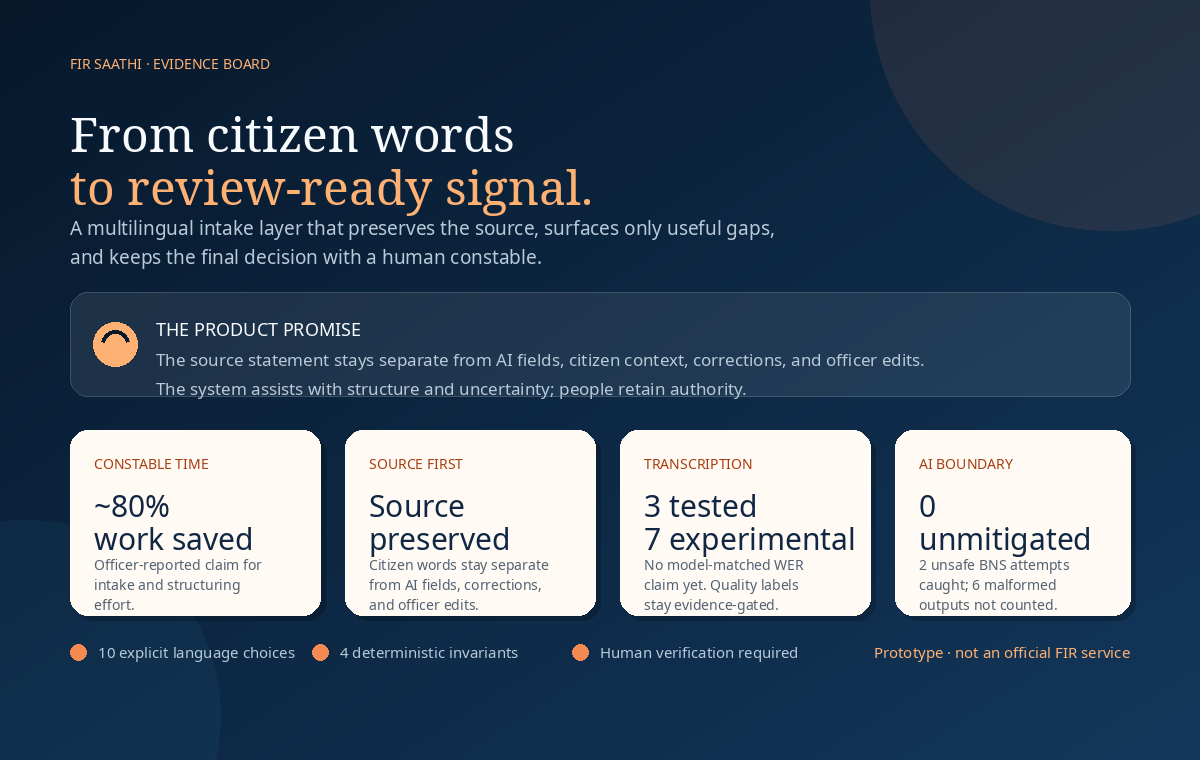
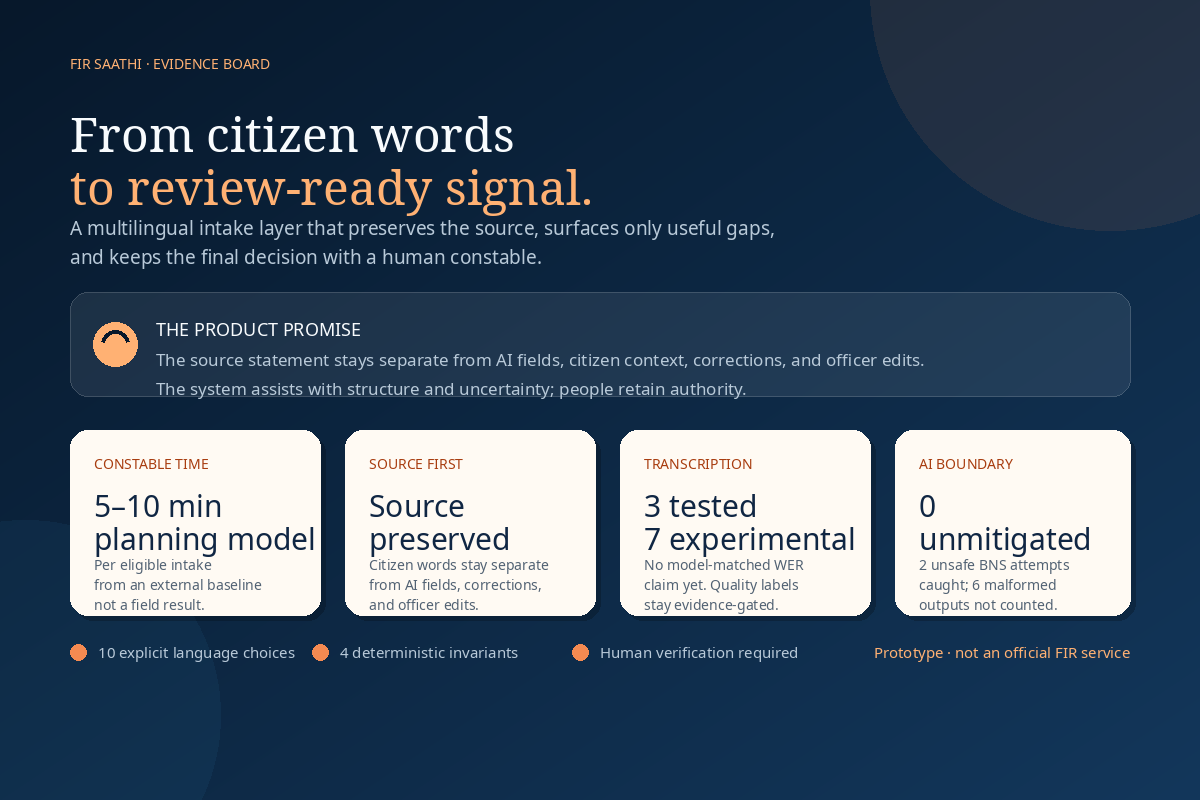
Tighten judging claims and repository metadata

Changed region(s): [[0.0308, 0.1513, 0.9558, 0.8776], [0.0617, 0.0605, 0.2158, 0.0908]]

diff --git a/scripts/render_evidence_board.py b/scripts/render_evidence_board.py
@@ -3,7 +3,7 @@ from pathlib import Path
 from PIL import Image, ImageDraw, ImageFont
 
 OUT = Path(__file__).resolve().parents[1] / "docs" / "assets" / "evidence-board.png"
-WIDTH, HEIGHT = 1200, 760
+WIDTH, HEIGHT = 1200, 800
 
 
 def font_path(pattern: str) -> str:
@@ -58,7 +58,7 @@ draw.text((156, 347), "The source statement stays separate from AI fields, citiz
 draw.text((156, 376), "The system assists with structure and uncertainty; people retain authority.", font=font(sans, 17), fill=muted)
 
 cards = [
-    (70, "CONSTABLE TIME", ["~80%", "work saved"], ["Officer-reported claim for", "intake and structuring", "effort."]),
+    (70, "CONSTABLE TIME", ["5–10 min", "planning model"], ["Per eligible intake", "from an external baseline", "not a field result."]),
     (345, "SOURCE FIRST", ["Source", "preserved"], ["Citizen words stay separate", "from AI fields, corrections,", "and officer edits."]),
     (620, "TRANSCRIPTION", ["3 tested", "7 experimental"], ["No model-matched WER", "claim yet. Quality labels", "stay evidence-gated."]),
     (895, "AI BOUNDARY", ["0", "unmitigated"], ["2 unsafe BNS attempts", "caught; 6 malformed", "outputs not counted."]),

diff --git a/README.md b/README.md
@@ -4,7 +4,7 @@
 
 ### The source-preserving intake layer for multilingual public-service review
 
-**Citizens keep their own words. Constables get a clearer review surface. AI assists with structure and uncertainty—people retain authority.**
+**Citizens keep their own words. Constables get a clearer review surface. AI assists with structure and uncertainty; people retain authority.**
 
 [![Deploy to Raspberry Pi](https://github.com/khushitpratikshah/fir-saathi/actions/workflows/deploy-raspberry-pi.yml/badge.svg)](https://github.com/khushitpratikshah/fir-saathi/actions/workflows/deploy-raspberry-pi.yml)
 [![Prototype](https://img.shields.io/badge/status-prototype-f48a51?labelColor=102643)](#scope-and-boundaries)
@@ -12,7 +12,7 @@
 
 </div>
 
-> **FIR Saathi is a demonstration prototype—not an official police portal, emergency service, FIR-registration system, legal-advice engine, or automated decision-maker.** Do not use it for real or urgent complaints.
+> **FIR Saathi is a demonstration prototype, not an official police portal, emergency service, FIR-registration system, legal-advice engine, or automated decision-maker.** Do not use it for real or urgent complaints.
 
 ## Inspiration: what “FIR” means
 
@@ -52,11 +52,11 @@ Here are the four questions a serious evaluator should ask. The numbers below di
 
 | Question | What we can defend today | Status |
 |---|---|---|
-| **How much time does FIR Saathi save a constable?** | An **officer-reported claim says roughly 80% of the intake-and-structuring work can be saved**. This is an attributed claim, not an independently measured FIR Saathi result; the README keeps the underlying study and conservative planning model below for context. | **Officer-reported claim; independently unverified** |
+| **How much time does FIR Saathi save a constable?** | A transparent **5–10 minute per eligible intake planning estimate** is shown below. It is a bounded hypothesis based on an external report-writing baseline, not a measured FIR Saathi result. | **Planning estimate; not measured** |
 | **How well does transcription work by language?** | English, Hindi, and Gujarati have been personally tested qualitatively. Marathi, Bengali, Tamil, Telugu, Kannada, Malayalam, and Punjabi are available but marked **Experimental**. No model-matched WER claim is published. | **Language evidence in progress** |
 | **How often does AI attempt unsupported information, and how often is it caught?** | In the recorded ten-fixture hostile run, 4 responses were parseable; 2 of those attempted unsafe non-`REVIEW` BNS output, and the deterministic normaliser mitigated both. That leaves **0 unmitigated evaluated responses**. Six malformed responses are not counted as blocked. | **Observed snapshot, not a benchmark** |
 
-> **Why show both figures?** The roughly 80% number is an officer-reported claim about intake-and-structuring effort. The 5–10 minute range below is a separate, conservative planning model based on an external report-writing baseline. Neither is a measured FIR Saathi impact result; both should be tested in a local pilot.
+> **Why show the estimate?** The 5–10 minute range is a conservative planning model based on an external report-writing baseline. It is not a measured FIR Saathi impact result and should be tested in a local pilot.
 
 ## What is already working
 
@@ -176,7 +176,7 @@ For a production build, use `pnpm build` followed by `pnpm start`. The browser r
 
 ## Evaluator fast path: synthetic reviewer account
 
-The live deployment includes a **synthetic, constable-only demo account** and one harmless fictional case so evaluators can open the human-review workspace without creating an account or submitting a real complaint. Use the reviewer entry point at [`https://fir.khushit.com/officer`](https://fir.khushit.com/officer):
+The live deployment includes a **synthetic, constable-only demo account** and one harmless fictional case so evaluators can open the human-review workspace without creating an account or submitting a real complaint. Use the reviewer entry point at [`https://fir.khushit.com/officer`](https://fir.khushit.com/officer). The same deployment is also reachable at [`https://firsaathi.me`](https://firsaathi.me):
 
 | Demo access | Value |
 |---|---|
@@ -201,13 +201,13 @@ All ordinary application actions preserve a separation between original source, 
 
 ## Scope and boundaries
 
-FIR Saathi is designed for demonstration, evaluation, and controlled self-hosting. It does not provide emergency dispatch, official FIR registration, legal advice, formal records-retention guarantees, biometric identity verification, production-scale abuse prevention, or a validated multilingual transcription benchmark. The right next step is a controlled evaluation with synthetic scenarios and independently reference-checked audio—not a stronger marketing claim.
+FIR Saathi is designed for demonstration, evaluation, and controlled self-hosting. It does not provide emergency dispatch, official FIR registration, legal advice, formal records-retention guarantees, biometric identity verification, production-scale abuse prevention, or a validated multilingual transcription benchmark. The right next step is a controlled evaluation with synthetic scenarios and independently reference-checked audio - not a stronger marketing claim.
 
 ## Missing-information reduction: keep the question, measure it at the end
 
 FIR Saathi’s mechanism is implemented: it checks fixed high-value categories, avoids asking a question when the source or separate citizen context already covers it, and stores context separately rather than silently enriching the citizen’s statement. The reduction in missing-detail rate has **not** yet been measured against a baseline, so this belongs at the end of the README rather than in the hero pitch.
 
-A credible pilot should independently code matched synthetic scenarios in two conditions—baseline intake and FIR Saathi—and report detail coverage, clarification loops, source-fidelity errors, and citizen burden. This section is intentionally last because it is a measurement question, not a headline claim.
+A credible pilot should independently code matched synthetic scenarios in two conditions - baseline intake and FIR Saathi - and report detail coverage, clarification loops, source-fidelity errors, and citizen burden. This section is intentionally last because it is a measurement question, not a headline claim.
 
 | Proposed pilot metric | Definition |
 |---|---|

diff --git a/docs/gallery_asset_notes.md b/docs/gallery_asset_notes.md
@@ -1,6 +1,6 @@
 # Gallery asset notes
 
-- `docs/assets/evidence-board.png`: 1200x760 PNG, 133 KB. Strong hero/evidence board; near the requested 3:2 ratio and under 5 MB.
+- `docs/assets/evidence-board.png`: 1200x800 PNG, under 5 MB. Strong hero/evidence board at the requested 3:2 ratio.
 - `docs/assets/intake-language-picker.webp`: 893x768 WebP, 389 KB. Strong real intake UI screenshot showing language choices and Experimental badges, but WebP is outside the requested JPG/PNG/GIF formats. Convert to PNG for the gallery.
 - `/home/ubuntu/screenshots/127_0_0_1_2026-08-26_05-52-57_8869.webp`: blank white capture; exclude.
 
@@ -8,4 +8,4 @@ The current README already embeds the evidence board and language-picker screens
 
 ## Visual QA
 
-Both prepared gallery assets render correctly at 1200x800, an exact 3:2 ratio, and remain comfortably under the 5 MB limit. The evidence board is legible and leads with the ~80% officer-reported claim, source preservation, transcription status, and AI boundary. The intake screenshot is a real app view with readable language cards and Experimental badges. No blank or placeholder capture is included in the gallery.
+Both prepared gallery assets render correctly at 1200x800, an exact 3:2 ratio, and remain comfortably under the 5 MB limit. The evidence board is legible and leads with the transparent planning estimate, source preservation, transcription status, and AI boundary. The intake screenshot is a real app view with readable language cards and Experimental badges. No blank or placeholder capture is included in the gallery.
